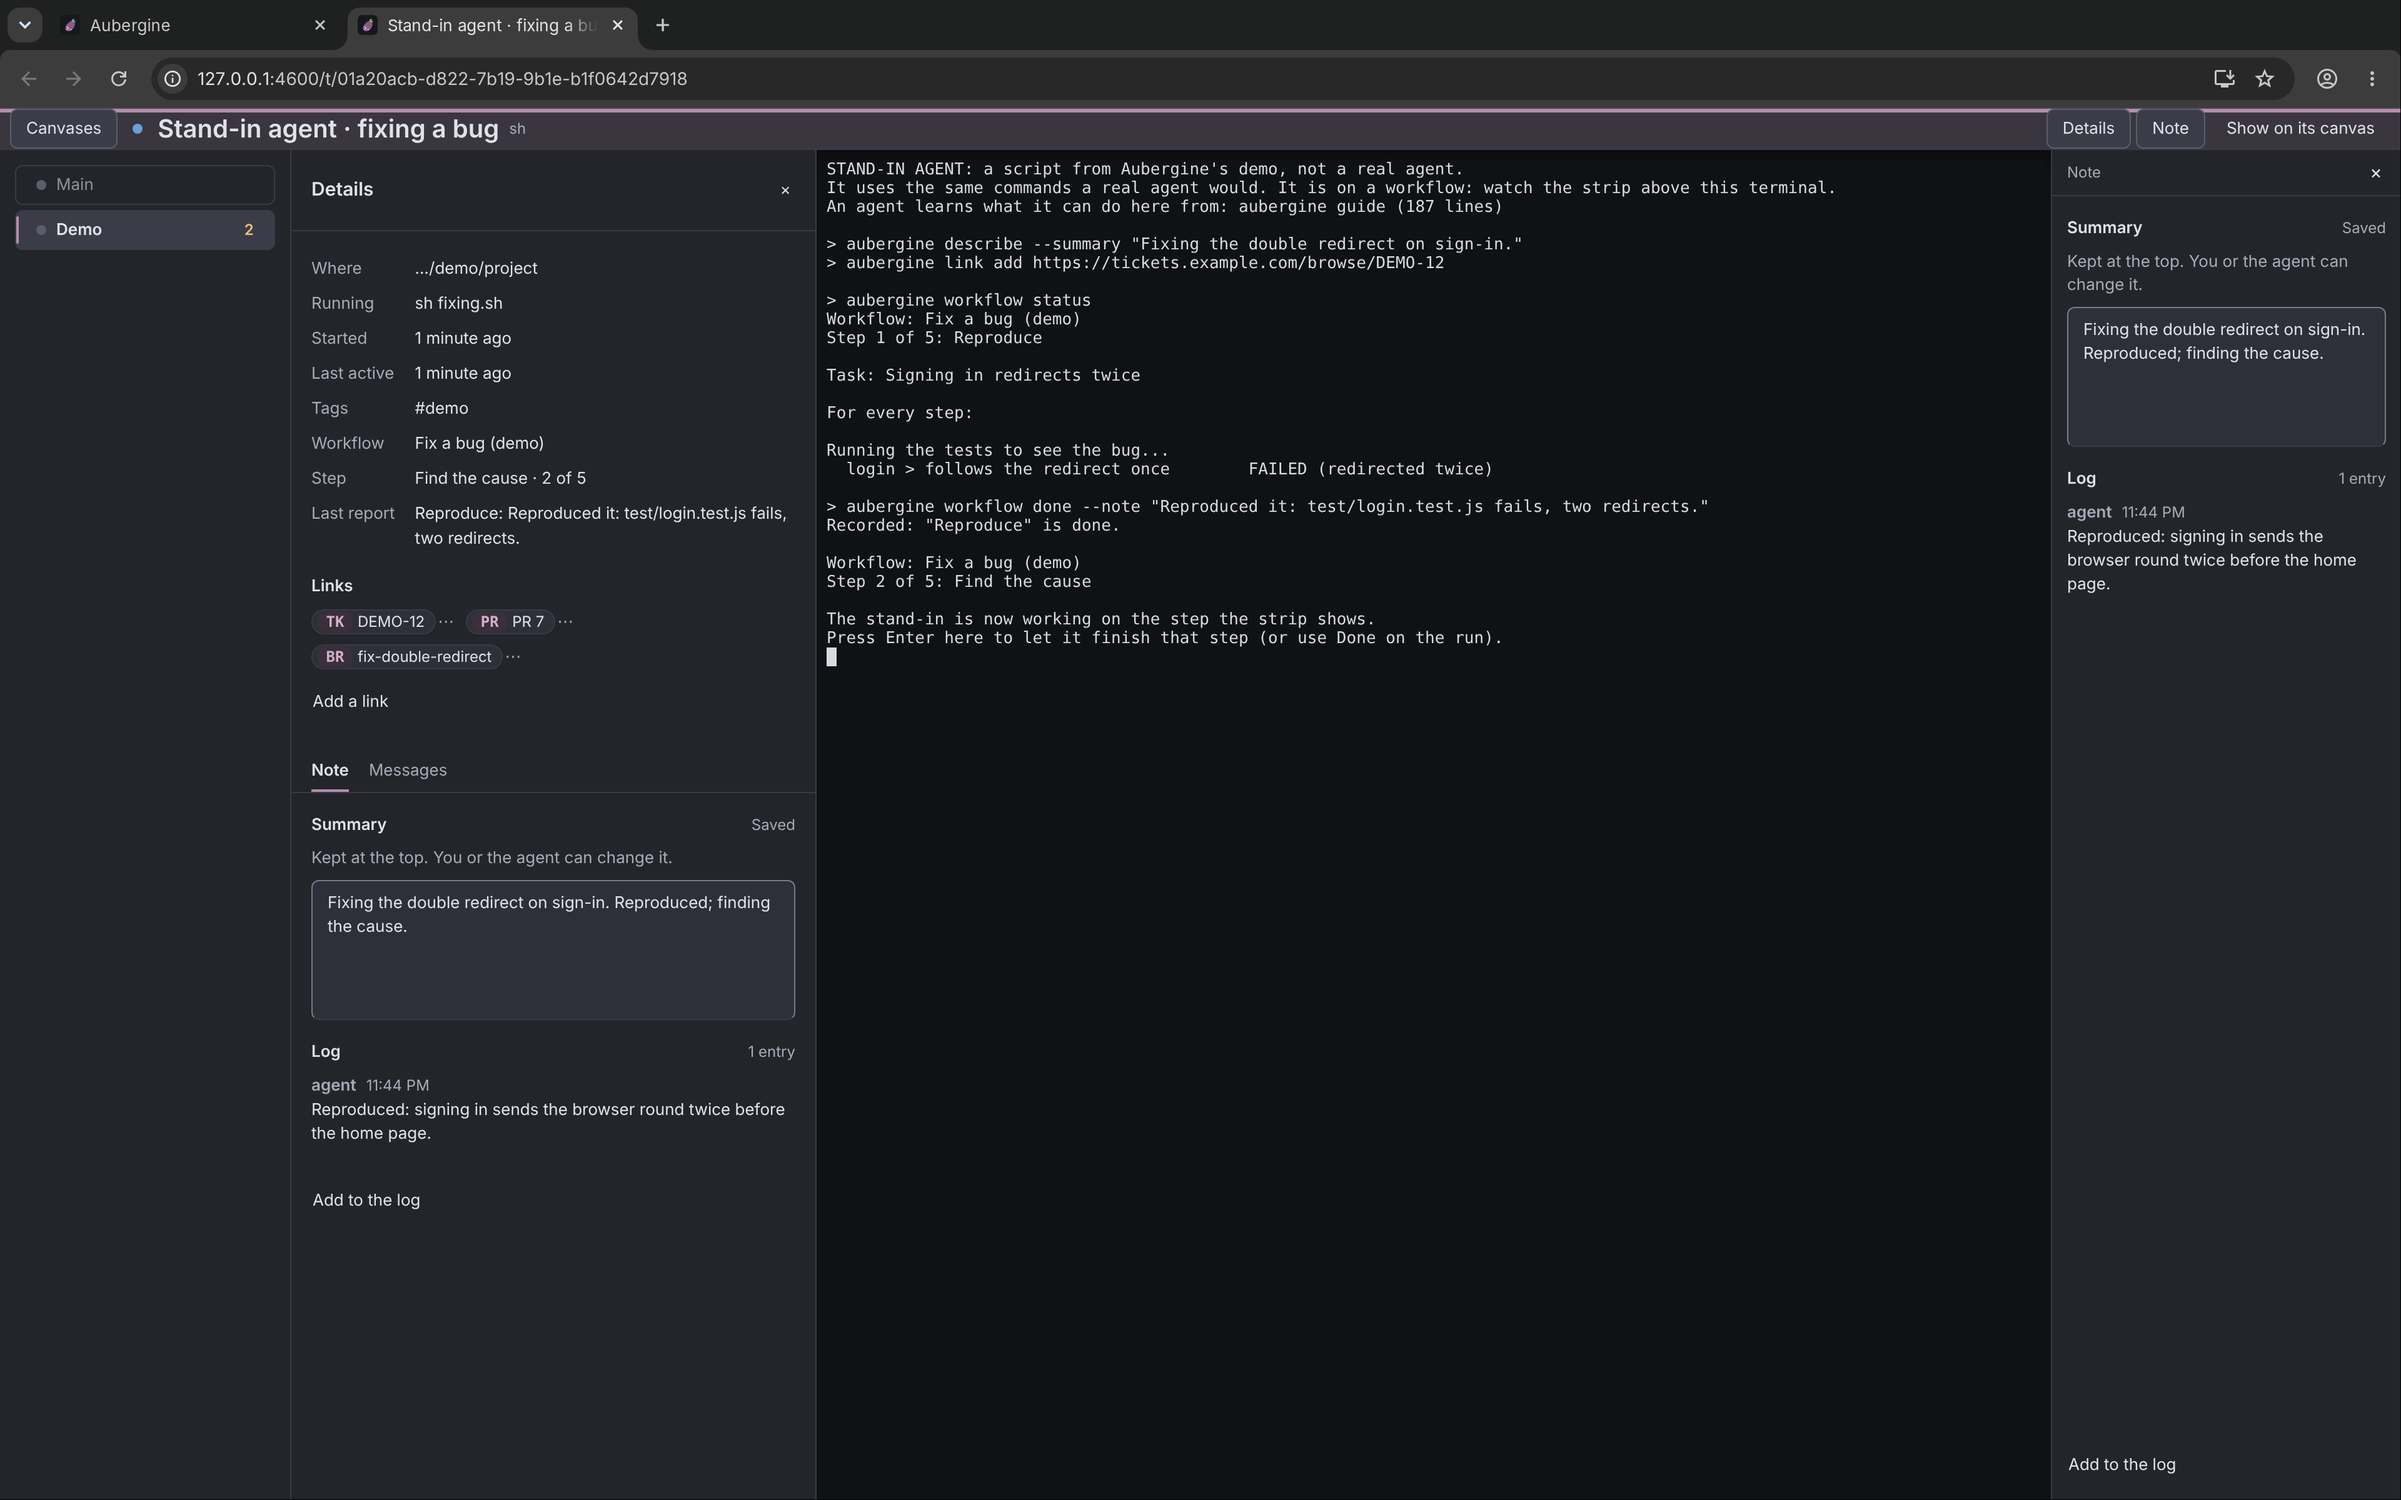
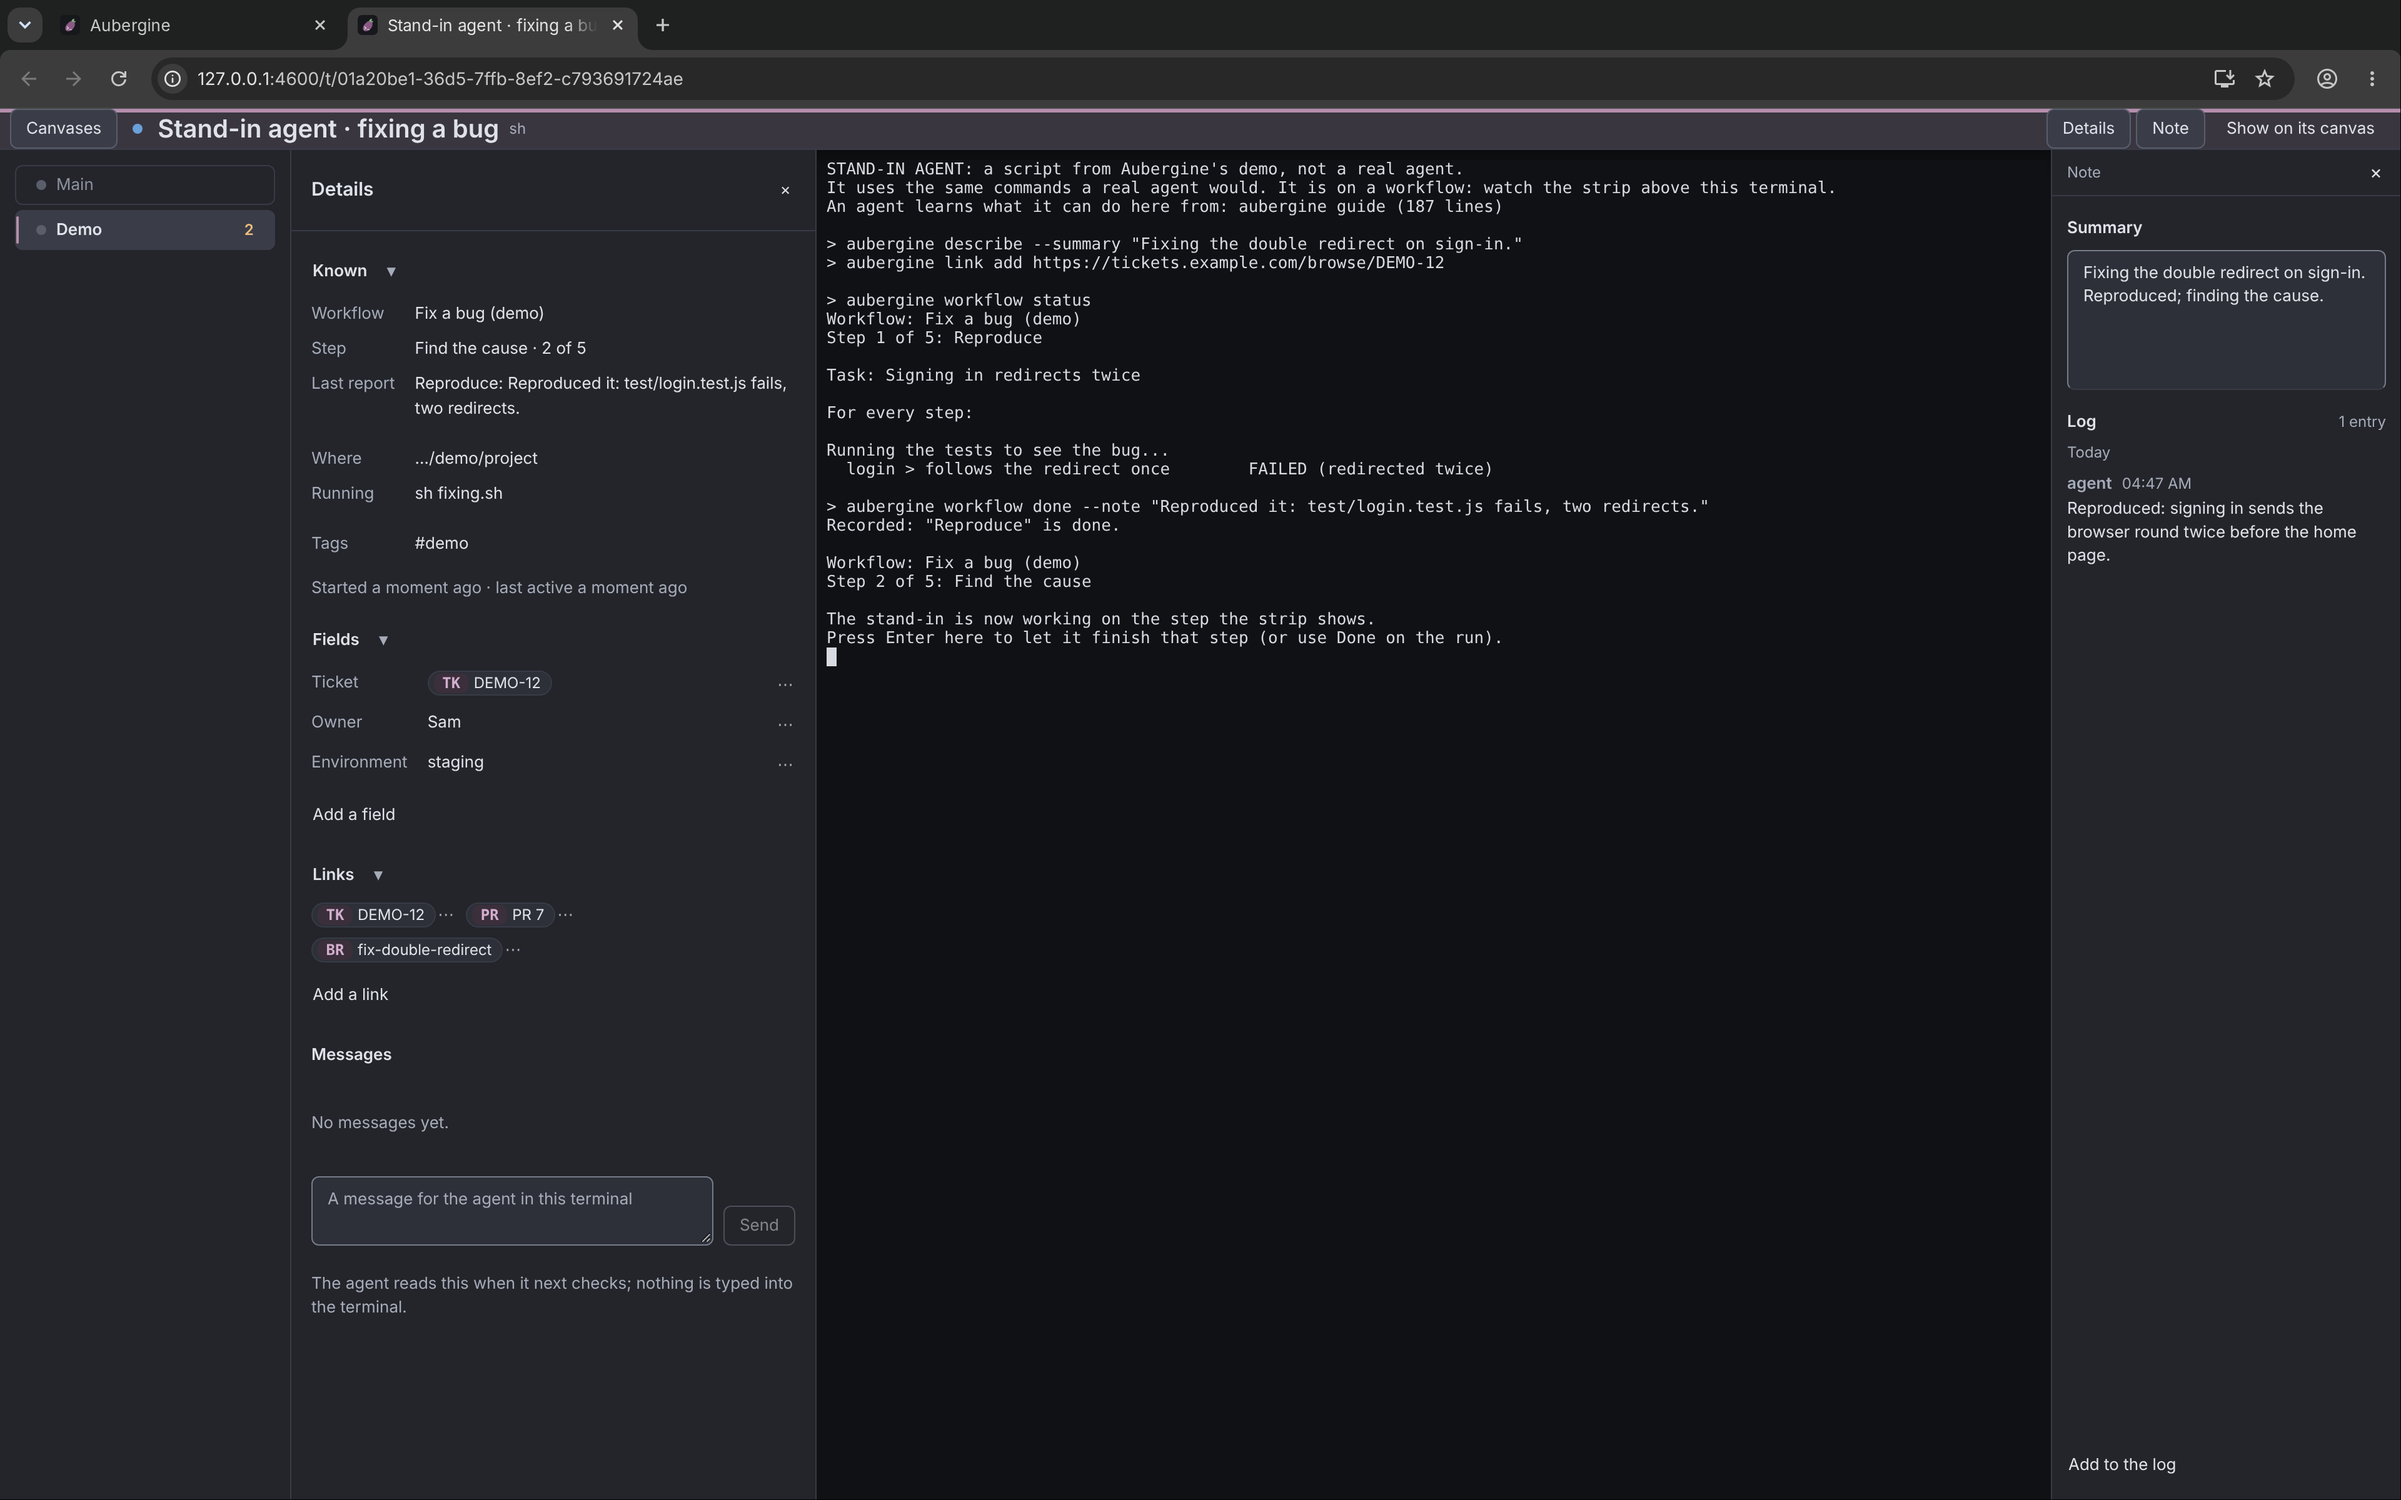
The pictures of the focus view show the details as they are now, with the terminal's fields
Claude-Session: https://claude.ai/code/session_011jV7PaBDCNMfJDETAJCyU3

diff --git a/site/index.html b/site/index.html
@@ -234,8 +234,8 @@
         <figcaption>Canvases on the left, every terminal in the list with what it is doing, and the terminals themselves, live, each in a color of its own if you like. The one with a question waits for you.</figcaption>
       </figure>
       <figure class="shot">
-        <img src="screenshots/focus.png" width="3840" height="2400" loading="lazy" alt="A browser window with two tabs, the canvas and one terminal by itself, whose address ends in /t/ and the terminal's ID. Its head is tinted in the terminal's purple, and all three columns are open: the canvases of its project at the left, its details with where it runs, its workflow step and its links, the live terminal, and its note with a summary and a log at the right.">
-        <figcaption>One terminal by itself in a browser tab of its own, beside the canvas's tab, its head in the terminal's color. The canvases of its project, its details and its note open beside it when you ask, and each closes again with its button.</figcaption>
+        <img src="screenshots/focus.png" width="3840" height="2400" loading="lazy" alt="A browser window with two tabs, the canvas and one terminal by itself, whose address ends in /t/ and the terminal's ID. Its head is tinted in the terminal's purple, and all three columns are open: the canvases of its project at the left, its details with its workflow step, where it runs, its fields (a ticket, an owner, an environment) and its links, the live terminal, and its note with a summary and a log at the right.">
+        <figcaption>One terminal by itself in a browser tab of its own, beside the canvas's tab, its head in the terminal's color. The canvases of its project, its details with the fields you keep about it, and its note open beside it when you ask, and each closes again with its button.</figcaption>
       </figure>
     </section>
 

diff --git a/README.md b/README.md
@@ -787,8 +787,8 @@ A terminal that is running on a canvas can also be open by itself in a browser t
 
 | | |
 |---|---|
-| ![The focus view in a browser tab of its own, beside the canvas's tab, its address ending in /t/ and the terminal's ID: the head tinted in the terminal's purple with its name and the buttons, the live terminal filling the rest of the window](site/screenshots/focus-closed.png) | ![The same browser tab with all three columns open: the canvases of its project at the left, its details, the live terminal, its note at the right, under the head in the terminal's purple](site/screenshots/focus.png) |
-| **Just the terminal, in a tab of its own.** Nothing beside it until you ask; the head has the terminal's color. | **Everything open.** Canvases, Details and Note, each opened by its button in the head. |
+| ![The focus view in a browser tab of its own, beside the canvas's tab, its address ending in /t/ and the terminal's ID: the head tinted in the terminal's purple with its name and the buttons, the live terminal filling the rest of the window](site/screenshots/focus-closed.png) | ![The same browser tab with all three columns open, under the head in the terminal's purple: the canvases of its project at the left; its details with what is known, its fields (a ticket, an owner, an environment) and its links; the live terminal; its note at the right, the summary over the log](site/screenshots/focus.png) |
+| **Just the terminal, in a tab of its own.** Nothing beside it until you ask; the head has the terminal's color. | **Everything open.** Canvases, Details and Note, each opened by its button in the head. The details show what is known, the terminal's fields and its links; the summary and the log are in the note. |
 
 Each column closes again with the same button in the head; Details and Note also close with the × in their own head.
 
